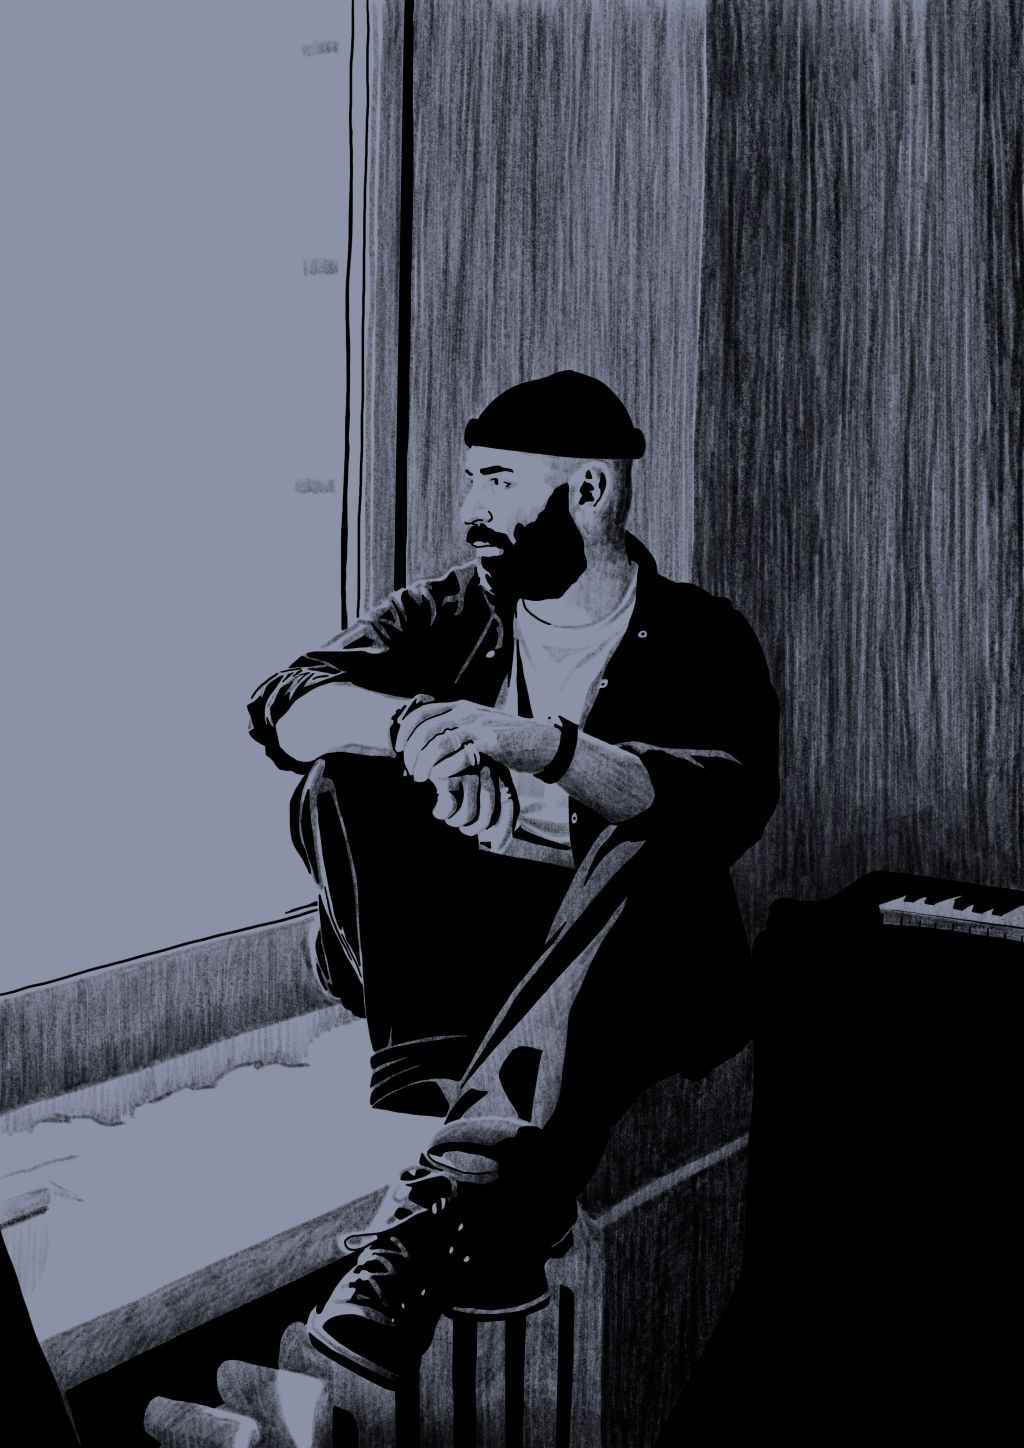
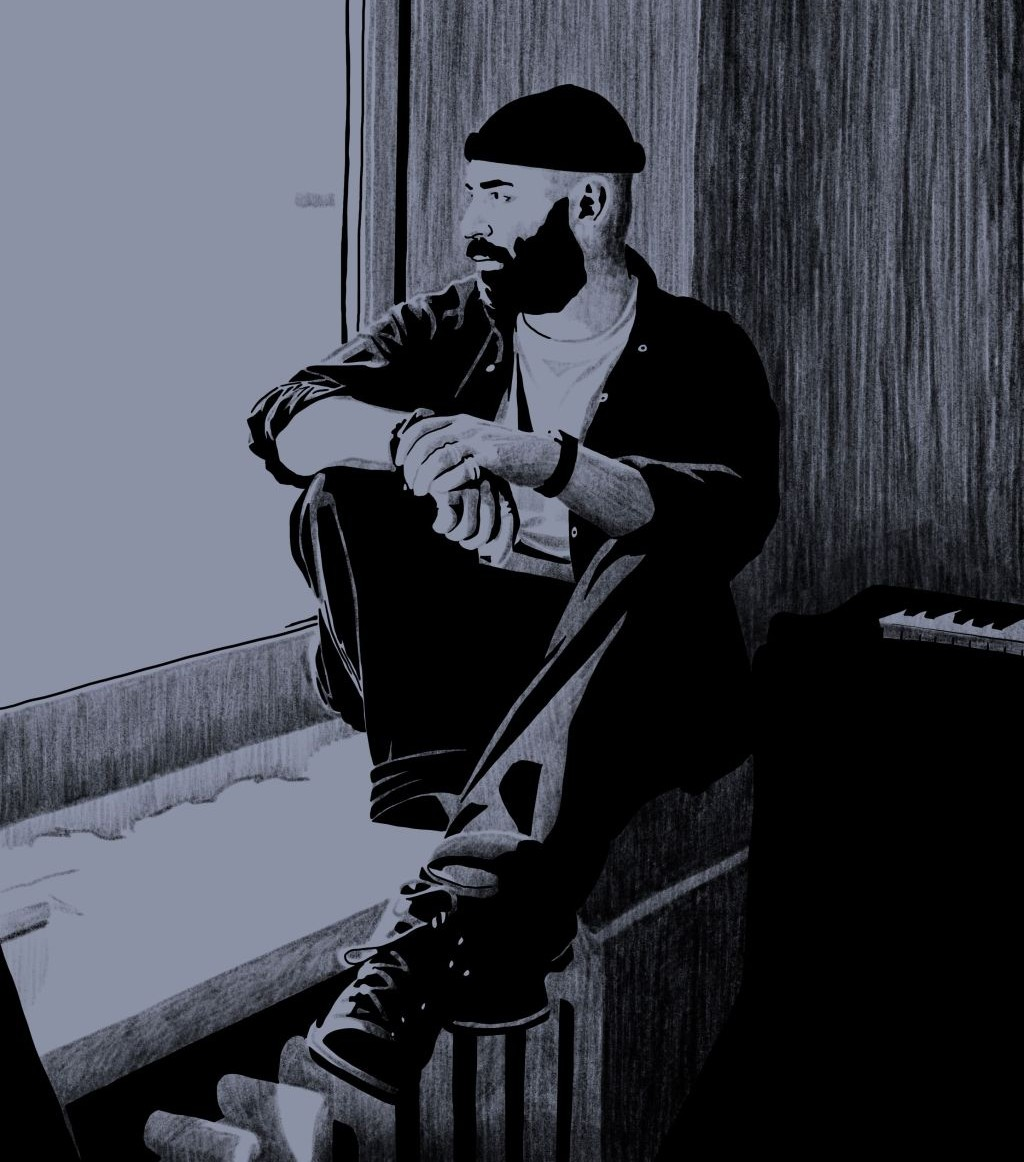
Update Episode “2025-09-22-andrii_pokaz”

diff --git a/src/content/episodes/2025-09-22-andrii_pokaz.md b/src/content/episodes/2025-09-22-andrii_pokaz.md
@@ -37,7 +37,7 @@ description: >-
 episode_URL: https://mailta.pe/591/Andrii-Pokaz/
 image: https://mailta.pe/img/fbpic591.jpg
 musiColor: musicolor591.png
-alignY: "0.9"
+alignY: "0.98"
 ---
 This morning, we are thrilled to have [Andrii Pokaz](https://pokaz.bandcamp.com/album/voices) bring the sunshine we all need to our speakers.
 
